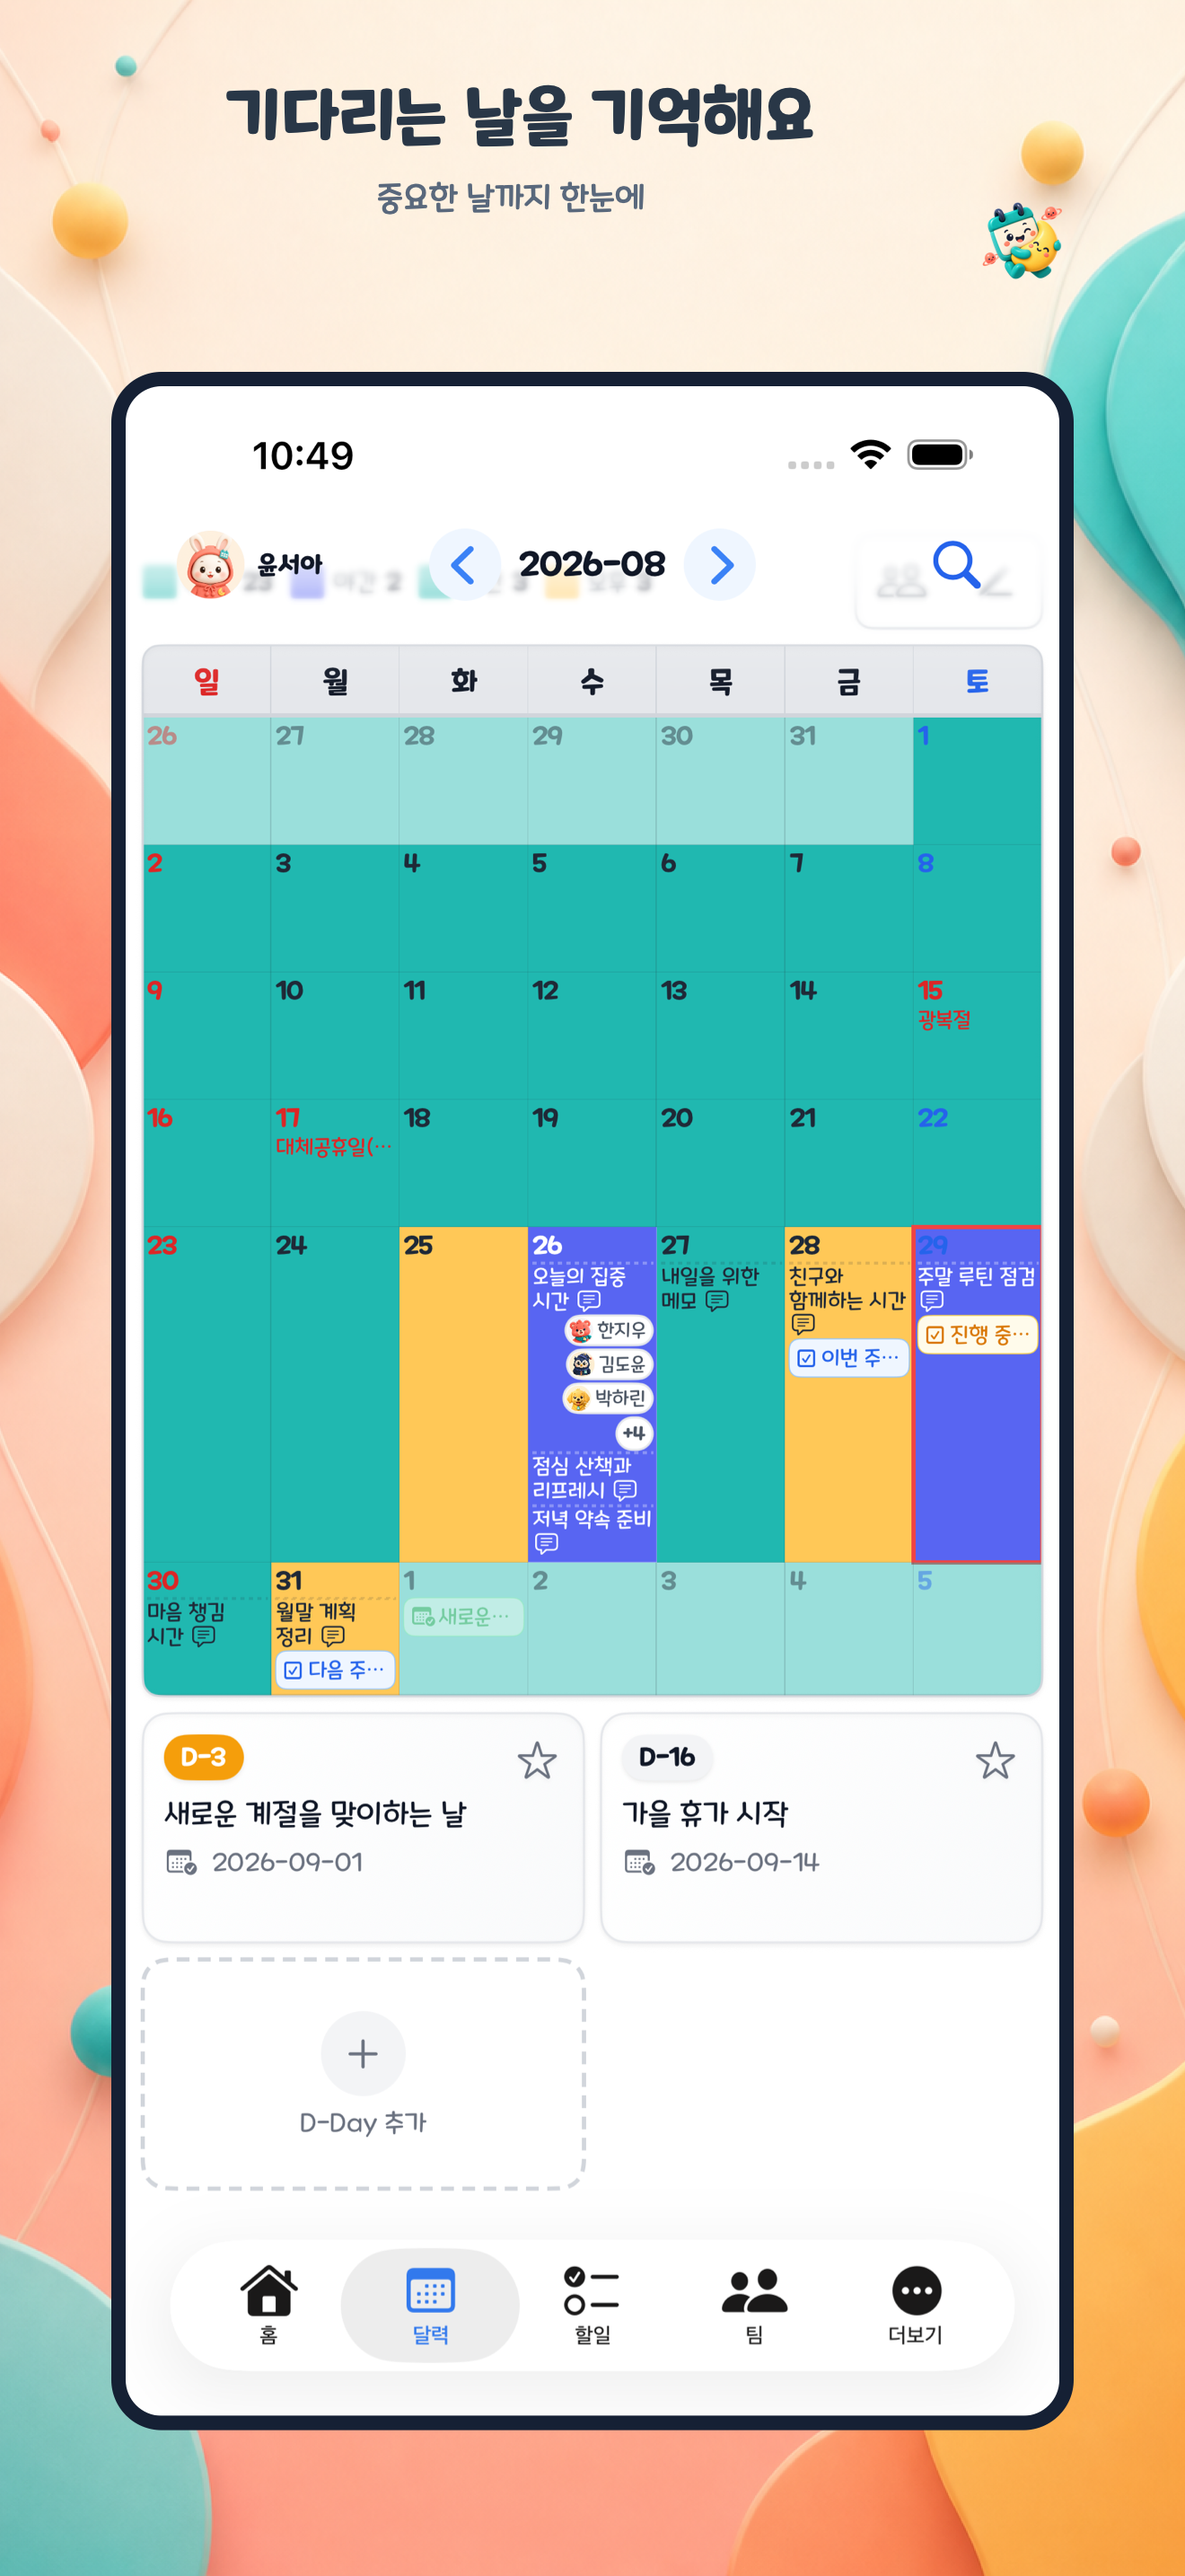
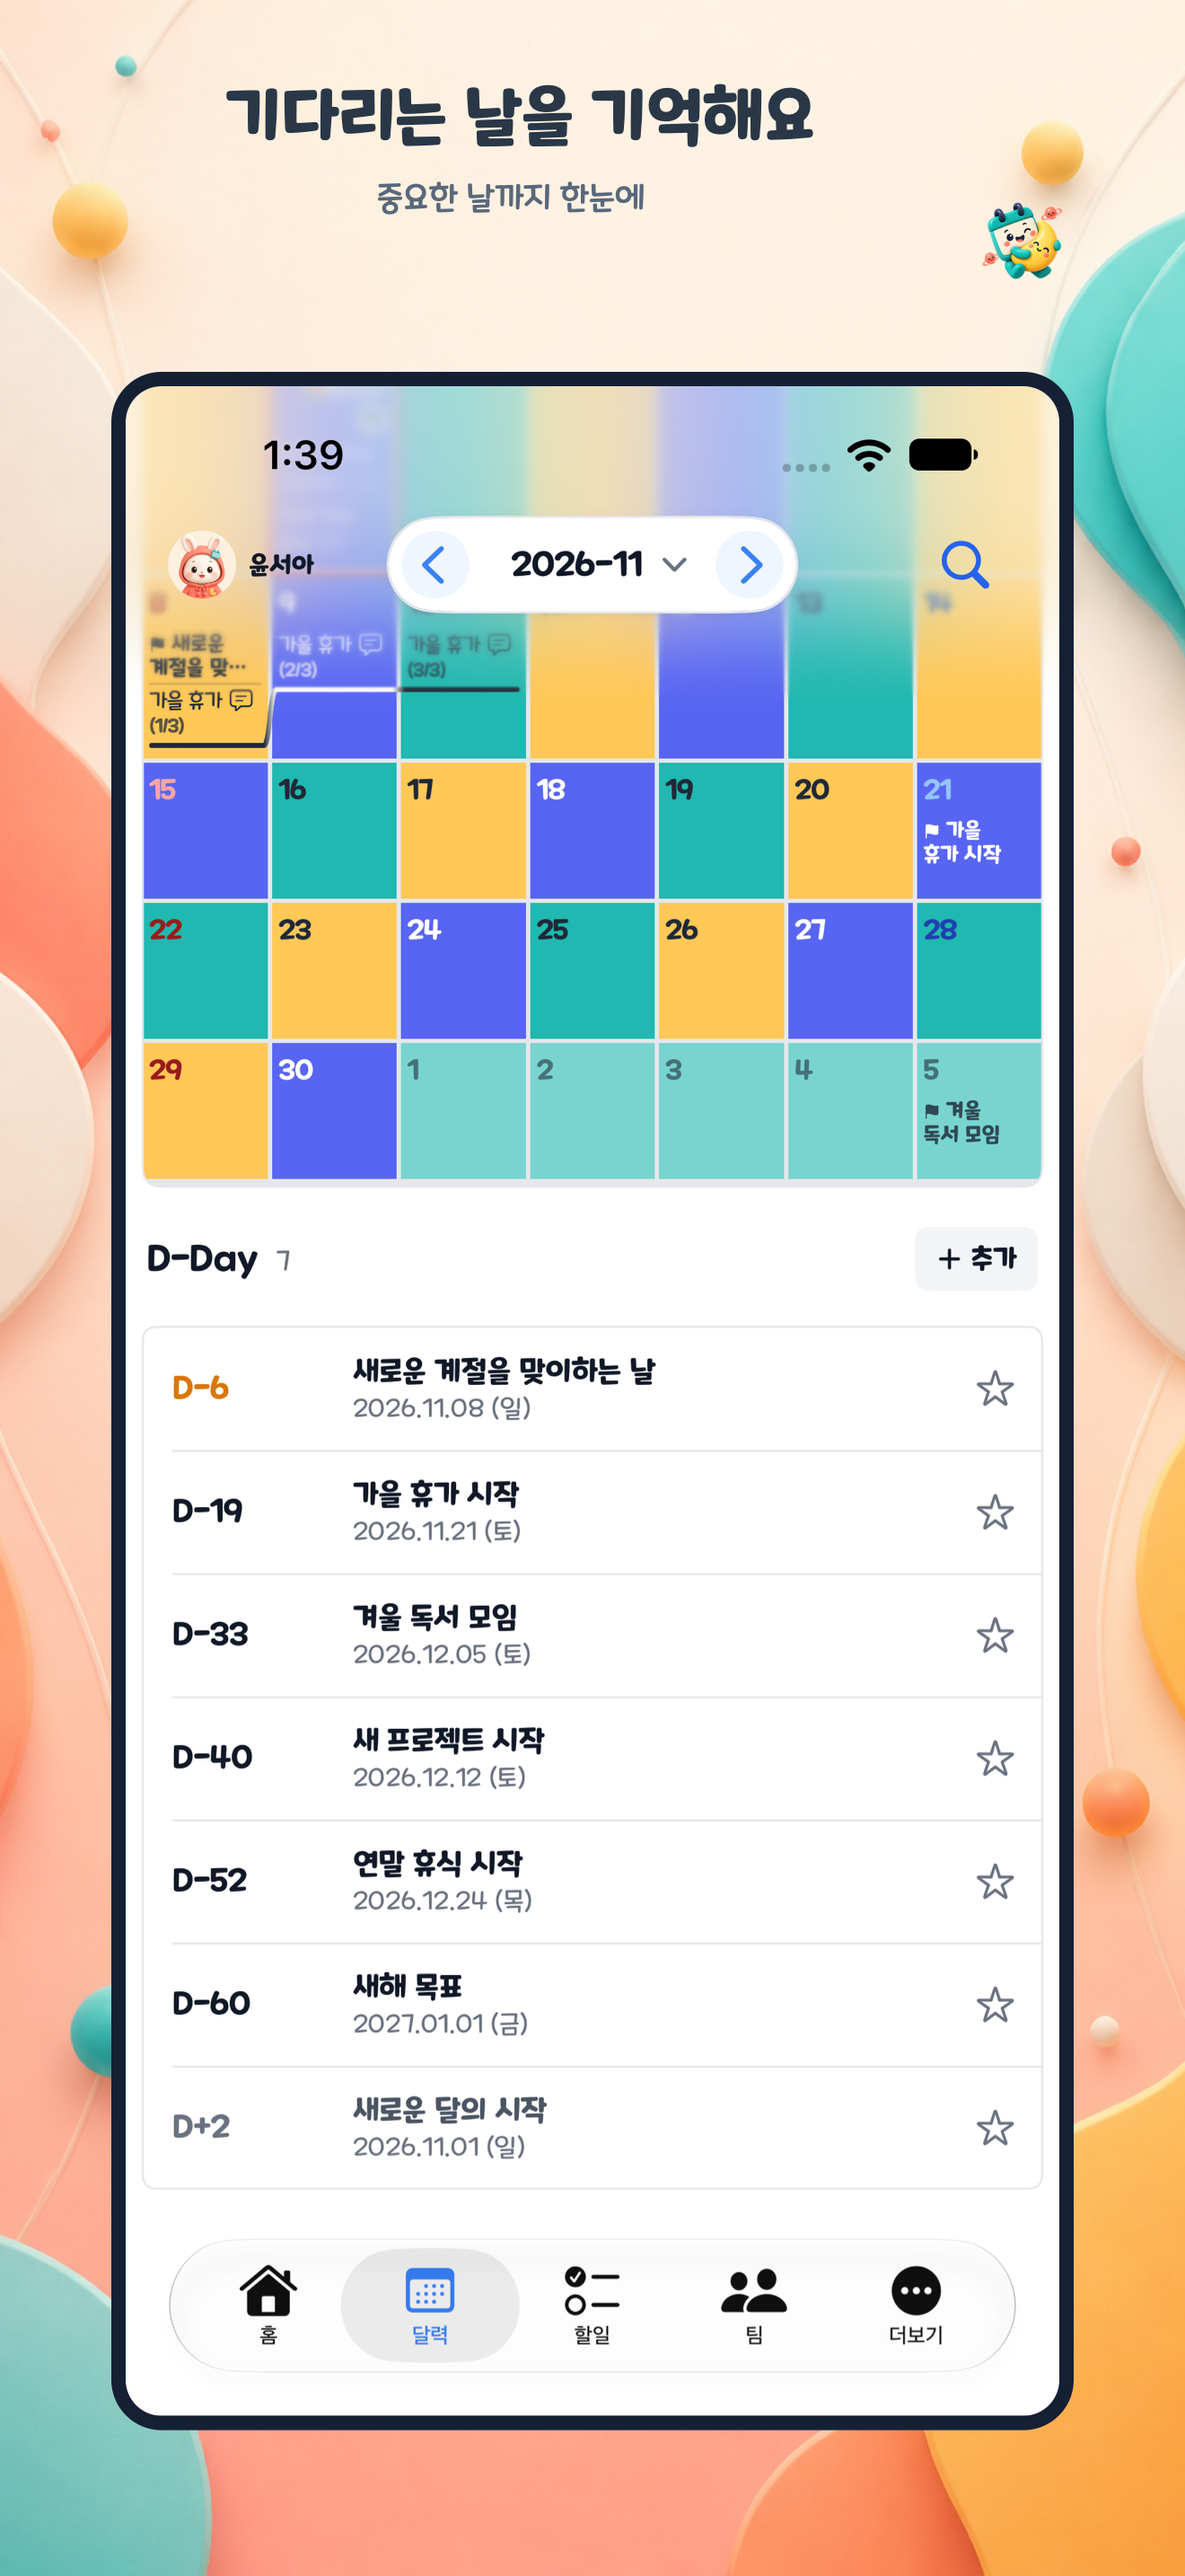
chore: refresh App Store screenshots for version 1.2.0

diff --git a/ios/DutyparkUITests/DemoAppStoreCaptureUITests.swift b/ios/DutyparkUITests/DemoAppStoreCaptureUITests.swift
@@ -51,30 +51,31 @@ final class DemoAppStoreCaptureUITests: XCTestCase {
         let home = app.descendants(matching: .any)["screen.home"]
         XCTAssertTrue(home.waitForExistence(timeout: 30), "Demo account did not reach Home")
         waitForHomeContent(in: app)
-        capture("appstore-\(language)-01-home-demo")
+        dismissNotificationPreprompt(language: language, in: app)
+        capture("appstore-\(language)-01-home-demo", in: app)
 
         openPrimaryTab("tab.calendar", screen: "screen.calendar", in: app)
         waitForSettledContent(in: app, loadingIdentifier: nil)
         if language == "en" {
             selectEnglishCaptureMonth(in: app)
         }
-        capture("appstore-\(language)-02-calendar-demo")
+        capture("appstore-\(language)-02-calendar-demo", in: app)
         captureCalendarDDay(language: language, in: app)
 
         openPrimaryTab("tab.todo", screen: "screen.todo", in: app)
         waitForSettledContent(in: app, loadingIdentifier: nil)
-        capture("appstore-\(language)-03-todo-demo")
+        capture("appstore-\(language)-03-todo-demo", in: app)
 
         openPrimaryTab("tab.team", screen: "screen.team", in: app)
         waitForSettledContent(in: app, loadingIdentifier: nil)
         if language == "en" {
             selectEnglishTeamCaptureMonth(in: app)
         }
-        capture("appstore-\(language)-04-team-demo")
+        capture("appstore-\(language)-04-team-demo", in: app)
 
         openPrimaryTab("tab.more", screen: "screen.more", in: app)
         waitForSettledContent(in: app, loadingIdentifier: nil)
-        capture("appstore-\(language)-05-more-demo")
+        capture("appstore-\(language)-05-more-demo", in: app)
 
         let friends = app.buttons["more.friends"]
         XCTAssertTrue(friends.waitForExistence(timeout: 10), "More menu did not load friend entry")
@@ -82,7 +83,7 @@ final class DemoAppStoreCaptureUITests: XCTestCase {
         let social = app.descendants(matching: .any)["social.list"]
         XCTAssertTrue(social.waitForExistence(timeout: 20), "Friend list did not load")
         waitForSettledContent(in: app, loadingIdentifier: "social.loading")
-        capture("appstore-\(language)-06-social-demo")
+        capture("appstore-\(language)-06-social-demo", in: app)
     }
 
     @MainActor
@@ -171,14 +172,34 @@ final class DemoAppStoreCaptureUITests: XCTestCase {
     }
 
     @MainActor
+    private func dismissNotificationPreprompt(language: String, in app: XCUIApplication) {
+        let prompt = app.alerts[language == "ko" ? "알림 켜기" : "Turn on notifications"]
+        // Notification authorization settings arrive asynchronously after sign-in.
+        // Dismiss the real preprompt rather than capturing its dimmed Home background.
+        if prompt.waitForExistence(timeout: 5) {
+            let cancel = prompt.buttons[language == "ko" ? "취소" : "Cancel"]
+            XCTAssertTrue(cancel.isHittable, "Notification preprompt must offer Cancel")
+            cancel.tap()
+            XCTAssertTrue(prompt.waitForNonExistence(timeout: 5), "Notification preprompt did not dismiss")
+        }
+        let unobstructedHome = XCTNSPredicateExpectation(
+            predicate: NSPredicate { _, _ in
+                !app.alerts.firstMatch.exists && app.buttons["tab.home"].isHittable
+                    && app.descendants(matching: .any)["home.friends.total"].isHittable
+            },
+            object: app
+        )
+        XCTAssertEqual(
+            XCTWaiter.wait(for: [unobstructedHome], timeout: 10), .completed,
+            "Home must be loaded and unobstructed before capture"
+        )
+    }
+
+    @MainActor
     private func selectEnglishCaptureMonth(in app: XCUIApplication) {
         let monthDisplay = app.buttons["calendar.month.display"]
         XCTAssertTrue(monthDisplay.waitForExistence(timeout: 10), "Calendar month control did not load")
-        XCTAssertEqual(
-            monthDisplay.value as? String,
-            "2026-08",
-            "The English demo capture starts in August 2026 before its three-month move"
-        )
+        if monthDisplay.value as? String == "2026-11" { return }
 
         monthDisplay.tap()
         let monthPicker = app.descendants(matching: .any)["calendar.monthPicker"]
@@ -200,7 +221,7 @@ final class DemoAppStoreCaptureUITests: XCTestCase {
         XCTAssertEqual(
             XCTWaiter.wait(for: [monthChanged], timeout: 10),
             .completed,
-            "English capture must show November 2026 after moving three months"
+            "English capture must show the populated November 2026 fixture"
         )
         XCTAssertEqual(monthDisplay.value as? String, "2026-11")
     }
@@ -209,11 +230,7 @@ final class DemoAppStoreCaptureUITests: XCTestCase {
     private func selectEnglishTeamCaptureMonth(in app: XCUIApplication) {
         let monthDisplay = app.buttons["team.calendar.month.display"]
         XCTAssertTrue(monthDisplay.waitForExistence(timeout: 10), "Team month control did not load")
-        XCTAssertEqual(
-            monthDisplay.value as? String,
-            "2026-08",
-            "The English team capture starts in August 2026 before its move to November"
-        )
+        if monthDisplay.value as? String == "2026-11" { return }
 
         monthDisplay.tap()
         let monthPicker = app.descendants(matching: .any)["team.calendar.monthPicker"]
@@ -241,30 +258,30 @@ final class DemoAppStoreCaptureUITests: XCTestCase {
         let calendar = app.descendants(matching: .any)["screen.calendar"]
         XCTAssertTrue(calendar.exists, "Calendar must remain visible before D-Day capture")
 
-        let dDayBadge = app.staticTexts.matching(
-            NSPredicate(
-                format: "label MATCHES %@",
-                "D(-|\\+)[0-9]+|D-Day"
-            )
-        ).firstMatch
+        let dDayRows = app.descendants(matching: .any).matching(
+            NSPredicate(format: "identifier BEGINSWITH %@", "calendar.dday.row.")
+        )
+        let firstRow = dDayRows.firstMatch
         let scrollView = app.scrollViews.firstMatch
         XCTAssertTrue(scrollView.waitForExistence(timeout: 10), "Calendar scroll view did not load")
 
-        // Move the D-Day cards away from the calendar overview so this capture is
-        // visually distinct even on tall devices where a badge is already visible.
+        // Scroll the real flat D-Day list into view instead of looking for the
+        // counters that are now combined into each row's accessibility label.
         scrollView.swipeUp()
         RunLoop.current.run(until: Date().addingTimeInterval(0.25))
 
-        for _ in 0..<7 where !dDayBadge.exists {
+        for _ in 0..<7 where !firstRow.isHittable {
             scrollView.swipeUp()
             RunLoop.current.run(until: Date().addingTimeInterval(0.25))
         }
 
         XCTAssertTrue(
-            dDayBadge.waitForExistence(timeout: 10),
-            "Calendar D-Day cards did not become visible after scrolling"
+            firstRow.waitForExistence(timeout: 10),
+            "Calendar D-Day rows did not load after scrolling"
         )
-        capture("appstore-\(language)-07-dday-demo")
+        XCTAssertTrue(firstRow.isHittable, "The captured D-Day list must be visible")
+        XCTAssertGreaterThanOrEqual(dDayRows.count, 2, "The demo must show multiple real D-Days")
+        capture("appstore-\(language)-07-dday-demo", in: app)
     }
 
     @MainActor
@@ -284,7 +301,8 @@ final class DemoAppStoreCaptureUITests: XCTestCase {
     }
 
     @MainActor
-    private func capture(_ name: String) {
+    private func capture(_ name: String, in app: XCUIApplication) {
+        XCTAssertFalse(app.alerts.firstMatch.exists, "App Store captures must not contain an alert")
         let attachment = XCTAttachment(screenshot: XCUIScreen.main.screenshot())
         attachment.name = name
         attachment.lifetime = .keepAlways

diff --git a/docs/app-store/README.md b/docs/app-store/README.md
@@ -31,18 +31,47 @@ fixture so the English submission set contains no Korean public-holiday labels.
 Capture metadata for this refresh:
 
 ```text
-Capture date: 2026-08-29 (Asia/Seoul)
+Capture date: 2026-11-02 (Asia/Seoul)
 Device: iPhone 17 Pro Max
-OS: iOS 26.5
-App: 1.0.0 (1)
-Canvas: 1320x2868 portrait
-Account: local dutypark_demo
-Source commit: 1856c2aa
+OS: iOS 27.0 (24A434)
+App: 1.2.0 (20261102)
+Canvas: 1320x2868 portrait, 8-bit RGB PNG without alpha
+Account: isolated local dutypark_demo fixtures (Korean and English)
+Source commit: 7cfd67d93a5a4d905b8cf10951ef95ba43312c73
+Source state: capture harness-only modifications; production app UI unchanged
 Capture API: http://localhost:8081/api/
-Source: actual app capture, not generated UI
-Capture test: 2 PASS / 0 FAIL / 0 SKIP
-Result bundle: /private/tmp/dutypark-appstore-capture-final3-20260829.xcresult
+Source: actual app capture, not generated UI; actual simulator clock
+Final selected capture tests: Korean 1 PASS, English 1 PASS / 0 FAIL / 0 SKIP
+Korean result: /private/tmp/dutypark-appstore-capture-20261102-v1.xcresult
+English result: /private/tmp/dutypark-appstore-capture-20261102-en-v3.xcresult
+Visual QA: all 12 final screenshots passed individual and contact-sheet review
 ```
+
+The final Korean captures come from the Korean case in the initial two-case run;
+its English images were superseded after visual QA found a notification prompt on
+Home. The final English case captures Home only after the app's notification prompt
+has been dismissed through its normal Cancel action. No screenshot pixels were
+edited to remove UI. The English local demo schedule titles `Getaway` and
+`Workshop` are short enough to show the real multi-day counters in the calendar.
+
+Both locales use fictional November 2026 demo data, including a three-day personal
+schedule crossing a D-Day, a three-day team schedule, and seven D-Day rows covering
+future and past dates. The production App Review account is separate from these
+local capture fixtures; its August 2026 data was not changed by this refresh.
+
+The local capture data was prepared from a temporary copy of
+`scripts/seed-local-demo-content.sh` at
+`/private/tmp/dutypark-appstore-demo-20261102/seed-current-demo.sh`. August-derived
+content used a +68-day offset from the `2026-08-26` origin for the actual
+`2026-11-02` capture date, with the additional November personal/team spans and
+seven D-Days described above. The unchanged checked-in seed retains its original
+August defaults and does not by itself reproduce this refreshed dataset. Fixture
+provenance is recorded in
+`/private/tmp/dutypark-appstore-demo-20261102/provenance.json` and summarized in each
+manifest's `capture.fixturePreparation` object.
+
+Existing decorative artwork, fonts, headlines, and framing are unchanged. The full app viewport is preserved at one uniform scale. Recomposition from the
+canonical raw files and manifests reproduces all 12 final PNGs byte-for-byte.
 
 The same per-locale provenance is recorded in each checked-in manifest's
 top-level `capture` object. The compositor ignores this metadata while keeping
@@ -83,10 +112,11 @@ script:
 ```sh
 xcodebuild -project ios/Dutypark.xcodeproj \
   -scheme Dutypark \
-  -destination 'platform=iOS Simulator,name=iPhone 17 Pro Max' \
+  -destination 'platform=iOS Simulator,name=Dutypark App Store Capture — iPhone 17 Pro Max' \
   -derivedDataPath /tmp/dutypark-appstore-capture-derived \
   -resultBundlePath /tmp/dutypark-appstore-capture.xcresult \
   CODE_SIGNING_ALLOWED=NO \
+  MARKETING_VERSION=1.2.0 CURRENT_PROJECT_VERSION=20261102 \
   API_BASE_URL='http://localhost:8081/api/' \
   -only-testing:DutyparkUITests/DemoAppStoreCaptureUITests test
 scripts/extract-app-store-captures.sh \
